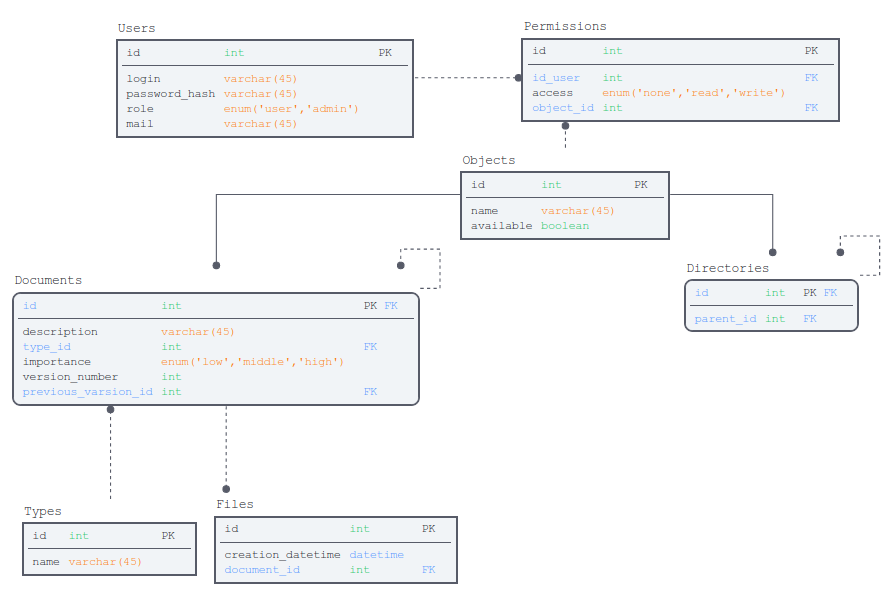
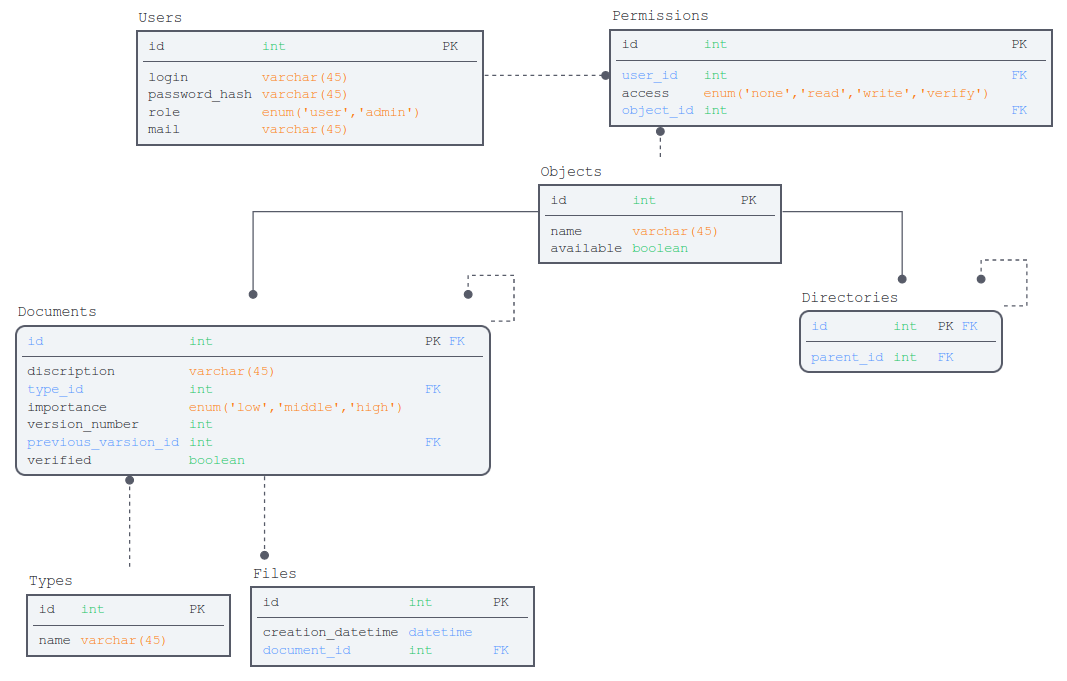
Added modules and entities

diff --git a/core/src/main/java/entities/Document.java b/core/src/main/java/entities/Document.java
@@ -1,0 +1,15 @@
+package entities;
+
+import entities.enums.Importance;
+import lombok.Getter;
+import lombok.Setter;
+
+@Getter
+@Setter
+public class Document extends Object {
+    private String description;
+    private int type_id;
+    private Importance importance;
+    private int version_number;
+    private int previous_version_id;
+}

diff --git a/core/src/main/java/entities/User.java b/core/src/main/java/entities/User.java
@@ -1,0 +1,15 @@
+package entities;
+
+import entities.enums.Role;
+import lombok.Getter;
+import lombok.Setter;
+
+@Getter
+@Setter
+public class User {
+    private int id;
+    private String login;
+    private String passwordHash;
+    private Role role;
+    private String mail;
+}

diff --git a/core/src/main/java/entities/Permission.java b/core/src/main/java/entities/Permission.java
@@ -1,0 +1,15 @@
+package entities;
+
+import entities.enums.Access;
+import lombok.Getter;
+import lombok.Setter;
+
+@Getter
+@Setter
+public class Permission {
+    private int id;
+    private int userId;
+    private int objectId;
+    private Access access;
+
+}

diff --git a/core/src/main/java/entities/File.java b/core/src/main/java/entities/File.java
@@ -1,0 +1,14 @@
+package entities;
+
+import lombok.Getter;
+import lombok.Setter;
+
+import java.time.LocalDateTime;
+
+@Getter
+@Setter
+public class File {
+    private int id;
+    private LocalDateTime creationDateTime;
+    private int documentId;
+}

diff --git a/core/src/main/java/entities/Object.java b/core/src/main/java/entities/Object.java
@@ -1,0 +1,12 @@
+package entities;
+
+import lombok.Getter;
+import lombok.Setter;
+
+@Getter
+@Setter
+public abstract class Object {
+    private int id;
+    private String name;
+    private boolean available;
+}

diff --git a/src/main/java/Main.java b/src/main/java/Main.java
@@ -1,0 +1,8 @@
+import lombok.extern.slf4j.Slf4j;
+
+@Slf4j
+public class Main {
+    public static void main(String[] args) {
+        log.debug("Application started.");
+    }
+}

diff --git a/core/src/main/java/entities/Directory.java b/core/src/main/java/entities/Directory.java
@@ -1,0 +1,10 @@
+package entities;
+
+import lombok.Getter;
+import lombok.Setter;
+
+@Getter
+@Setter
+public class Directory extends Object {
+    private int parent_id;
+}

diff --git a/core/src/main/java/entities/Type.java b/core/src/main/java/entities/Type.java
@@ -1,0 +1,11 @@
+package entities;
+
+import lombok.Getter;
+import lombok.Setter;
+
+@Getter
+@Setter
+public class Type {
+    private int id;
+    private String name;
+}

diff --git a/core/src/main/java/entities/enums/Access.java b/core/src/main/java/entities/enums/Access.java
@@ -1,0 +1,8 @@
+package entities.enums;
+
+public enum Access {
+    NONE,
+    READ,
+    WRITE,
+    VERIFY
+}

diff --git a/core/src/main/java/entities/enums/Importance.java b/core/src/main/java/entities/enums/Importance.java
@@ -1,0 +1,7 @@
+package entities.enums;
+
+public enum Importance {
+    HIGH,
+    MEDIUM,
+    LOW
+}

diff --git a/core/src/main/java/entities/enums/Role.java b/core/src/main/java/entities/enums/Role.java
@@ -1,0 +1,6 @@
+package entities.enums;
+
+public enum Role {
+    ADMIN,
+    USER
+}
